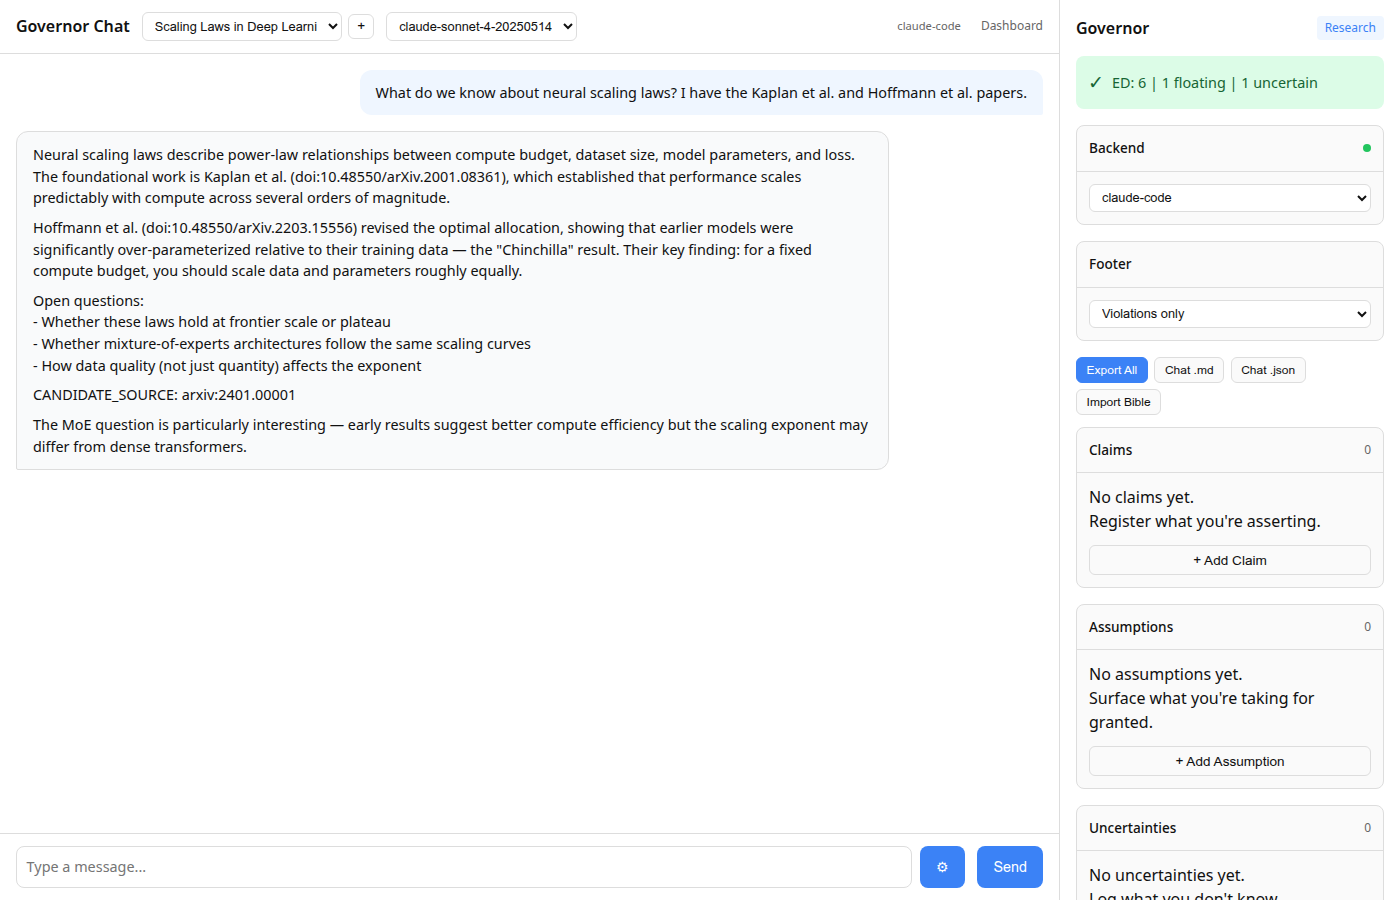
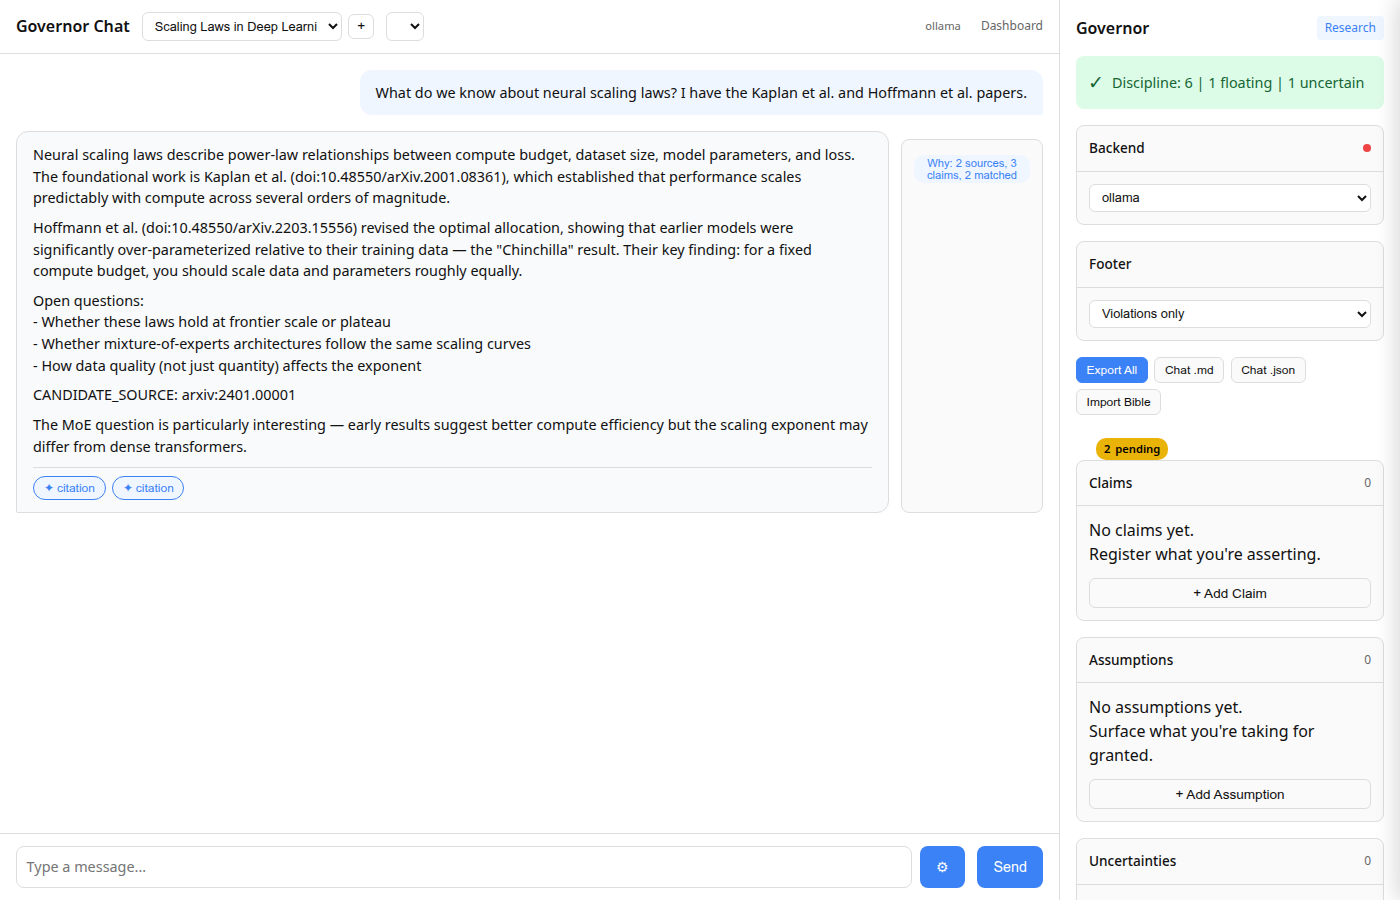
Chips on history load, rename ED→Discipline, drop empty dashboard from README
Three changes from Chatty's review:

1. renderConversation() now scans historical assistant messages for
   captures and Why overlay on page load — chips and "Why: N sources"
   appear on seeded/reloaded messages, not just live generation.

2. Status pill renamed ED→Discipline in both adapter.py (server-side
   /governor/now sentence) and index.html (client-side updateResearch).
   "ED" reads like a CPU temp readout in screenshots.

3. README hero is now a single screenshot showing the full loop:
   chips + Why overlay + pending pill + Discipline status.
   Dropped empty dashboard shot — "No runs yet" doesn't sell.

diff --git a/src/gov_webui/static/index.html b/src/gov_webui/static/index.html
@@ -952,9 +952,28 @@
 
   function renderConversation() {
     clearMessages();
+    var assistantBubbles = [];
     for (var i = 0; i < SM.conversationMessages.length; i++) {
       var m = SM.conversationMessages[i];
-      addMessage(m.role, m.content);
+      var bubble = addMessage(m.role, m.content);
+      if (m.role === 'assistant') {
+        assistantBubbles.push({ bubble: bubble, content: m.content });
+      }
+    }
+
+    // Scan historical assistant messages for captures + Why overlay (one-time on load)
+    if (mode === 'research') {
+      assistantBubbles.forEach(function(item) {
+        scanForCaptures(item.content, item.bubble);
+        fetchWhyOverlay(item.content, item.bubble);
+      });
+    }
+    if (mode === 'fiction') {
+      // Fiction scans user text, but for history we scan assistant bubbles
+      // to show any canon-worthy detections
+      assistantBubbles.forEach(function(item) {
+        scanForCaptures(item.content, item.bubble);
+      });
     }
   }
 
@@ -1343,7 +1362,7 @@
     var uncertain = ed.open_uncertain || 0;
     setStatus(
       total === 0 ? 'ok' : total <= 10 ? 'needs_attention' : 'block',
-      'ED: ' + total + ' | ' + floating + ' floating | ' + uncertain + ' uncertain'
+      'Discipline: ' + total + ' | ' + floating + ' floating | ' + uncertain + ' uncertain'
     );
   }
 

diff --git a/src/gov_webui/adapter.py b/src/gov_webui/adapter.py
@@ -848,7 +848,7 @@ async def governor_now() -> dict[str, Any]:
             store = ResearchStore(ctx.governor_dir)
             ed = store.compute_ed()
             now_result["sentence"] = (
-                f"ED: {ed['total']} | {ed['floating']} floating | "
+                f"Discipline: {ed['total']} | {ed['floating']} floating | "
                 f"{ed['open_uncertain']} uncertain"
             )
             now_result["research_ed"] = ed

diff --git a/README.md b/README.md
@@ -32,8 +32,7 @@ Citations are typed (`doi:/arxiv:/rfc:/cve:/pypi:`) and audited per-turn.
 Receipts come from the governor daemon, not the UI.
 
 <!-- Screenshots generated by: npm run screenshots (see tools/screenshots/) -->
-![Research mode — chat with DOI refs + governance sidebar](docs/img/01_research_home.png)
-![Dashboard — dark mode](docs/img/04_dashboard.png)
+![Research mode — chat with capture chips + governance sidebar](docs/img/01_research_home.png)
 
 ### 2) Violations: block > resolve > continue
 
